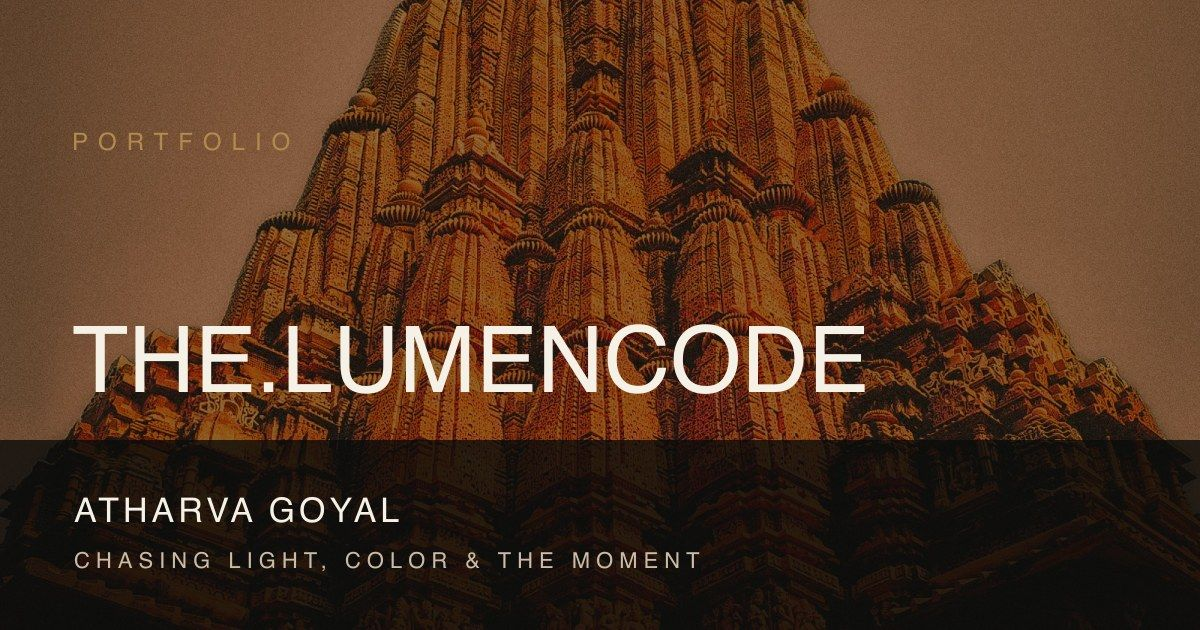
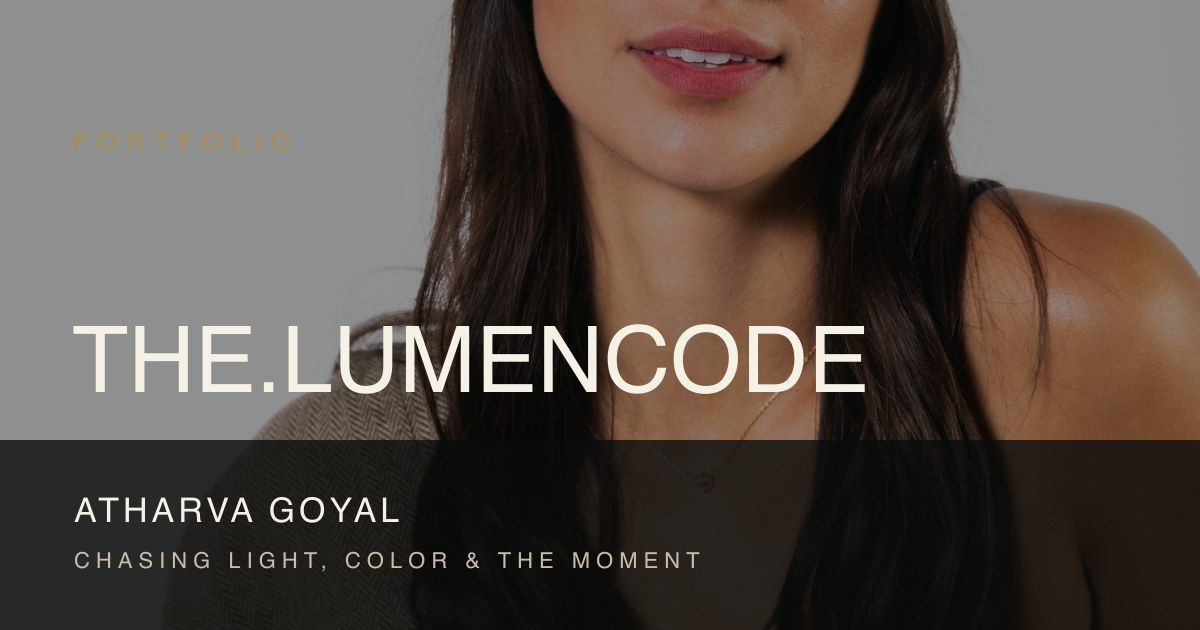
fix: add local fallback for OG image generation

diff --git a/lib/projects.ts b/lib/projects.ts
@@ -12,7 +12,7 @@ const STORY_KEYS = new Set(Object.keys(STORY_REGISTRY));
  * Curated ordering for category chips/filters across the site.
  * "featured" is a feed-only category (never a /projects card).
  */
-export const CATEGORY_ORDER = ["featured", "portraits", "street", "architecture", "side-projects"];
+export const CATEGORY_ORDER = ["featured", "portraits", "street", "side-projects"];
 
 /** Categories that render as "Side Projects" (feed + projects page). */
 export const SIDE_CATEGORIES = new Set(["side-projects"]);

diff --git a/app/page.tsx b/app/page.tsx
@@ -19,7 +19,7 @@ const heroImage = projects.find((p) => p.category === "portraits")?.coverSrc ?? 
 const heroThumb =
   projects.filter((p) => p.category === "portraits")[1]?.coverSrc ?? projects[1].coverSrc;
 
-const CATEGORY_ORDER = ["portraits", "street", "architecture", "side-projects"];
+const CATEGORY_ORDER = ["portraits", "street", "side-projects"];
 
 const selected = CATEGORY_ORDER.map((cat) => projects.find((p) => p.category === cat))
   .filter((p) => p !== undefined)
